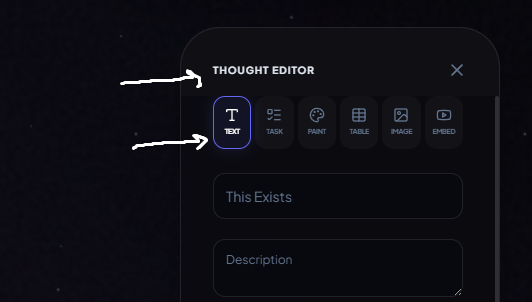
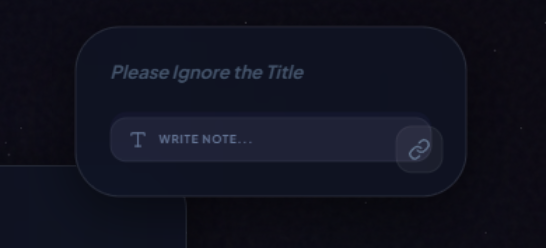
added indication for texts

diff --git a/src/components/ThoughtNode.tsx b/src/components/ThoughtNode.tsx
@@ -1,7 +1,7 @@
 import React, { useRef, useEffect, useState, useMemo } from 'react';
 import { type Thought } from '../db';
 import { useStore } from '../store/useStore';
-import { Maximize2, Palette, Link as LinkIcon, Link2Off, Image as ImageIcon, Table, ListTodo } from 'lucide-react';
+import { Maximize2, Palette, Link as LinkIcon, Link2Off, Image as ImageIcon, Table, ListTodo, Type } from 'lucide-react';
 import { marked } from 'marked';
 import { clsx, type ClassValue } from 'clsx';
 import { twMerge } from 'tailwind-merge';
@@ -141,11 +141,16 @@ const ThoughtNode: React.FC<ThoughtNodeProps> = React.memo(({ thought, registerE
         return (
           <div data-trigger="text" className="relative group/text overflow-hidden rounded-xl prevent-drag cursor-pointer pt-1">
             <div className={cn("overflow-hidden relative", hasContent && "max-h-[140px]")}>
-              {hasContent && (
+              {hasContent ? (
                 <div 
                   className="markdown-body text-[11px] leading-relaxed text-slate-300/90"
                   dangerouslySetInnerHTML={{ __html: parsedContent as string }}
                 />
+              ) : (
+                <div className="opacity-0 group-hover/text:opacity-100 transition-all duration-500 flex items-center gap-2 py-1.5 px-3 rounded-xl bg-white/5 border border-white/5 w-fit">
+                  <Type className="w-3.5 h-3.5 text-slate-500" />
+                  <span className="text-[8px] font-black uppercase tracking-widest text-slate-500">Write Note...</span>
+                </div>
               )}
               {hasContent && thought.content.length > 150 && (
                 <div className="absolute bottom-0 left-0 right-0 h-16 bg-gradient-to-t from-[var(--bg-main)] via-[var(--bg-main)]/80 to-transparent pointer-events-none" />
@@ -157,14 +162,6 @@ const ThoughtNode: React.FC<ThoughtNodeProps> = React.memo(({ thought, registerE
                 <span className="text-[8px] font-black uppercase tracking-[0.2em] text-white/40">Open Note</span>
               </div>
             )}
-            <div className="absolute inset-0 bg-[var(--accent)]/5 opacity-0 group-hover/text:opacity-100 transition-opacity rounded-xl flex items-center justify-center pointer-events-none">
-              <button 
-                onClick={(e) => { e.stopPropagation(); setActiveFocus(thought.id, 'text'); }}
-                className="pointer-events-auto bg-[var(--accent)] text-white p-2.5 rounded-xl shadow-2xl transform scale-90 group-hover/text:scale-100 transition-all hover:scale-110 active:scale-95"
-              >
-                <Maximize2 className="w-4 h-4" />
-              </button>
-            </div>
           </div>
         );
       }